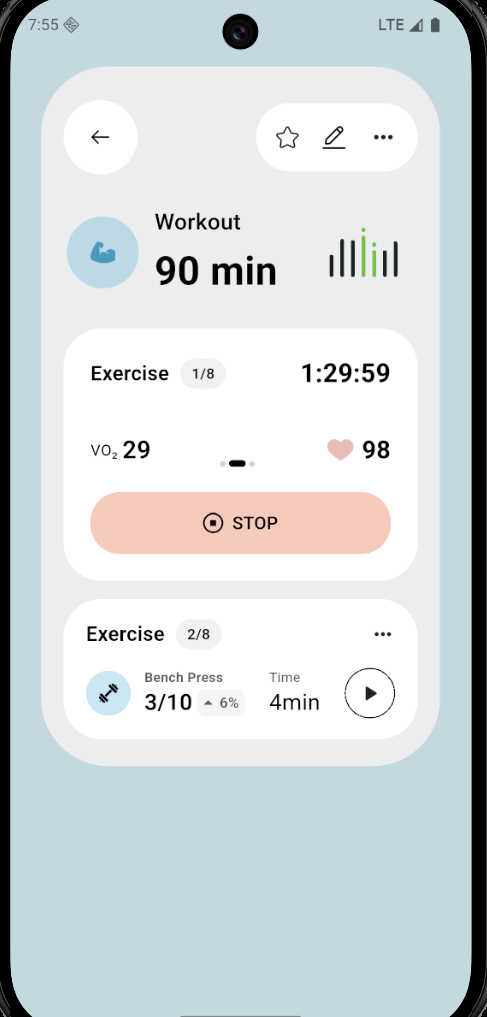
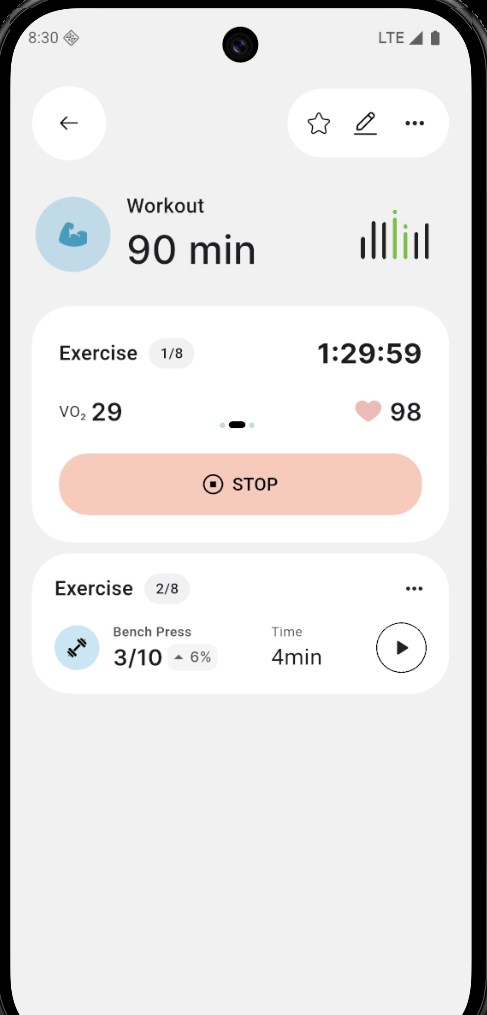
Day- 6 UI Improvement

diff --git a/day6/lib/screens/workout/workout_stats_card.dart b/day6/lib/screens/workout/workout_stats_card.dart
@@ -1,4 +1,5 @@
 import 'package:flutter/material.dart';
+import 'package:google_fonts/google_fonts.dart';
 
 class WorkoutStatsCard extends StatelessWidget {
   const WorkoutStatsCard({super.key});
@@ -48,9 +49,9 @@ class HeaderRow extends StatelessWidget {
           ),
         ),
         const Spacer(),
-        const Text(
+        Text(
           "1:29:59",
-          style: TextStyle(fontSize: 23, fontWeight: FontWeight.bold),
+          style: GoogleFonts.inter(fontSize: 25, fontWeight: FontWeight.bold),
         ),
       ],
     );
@@ -66,16 +67,54 @@ class MetricsRow extends StatelessWidget {
       children: [
         const Text("VO₂", style: TextStyle(fontSize: 14)),
         const SizedBox(width: 4),
-        const Text(
+        Text(
           "29",
-          style: TextStyle(fontSize: 22, fontWeight: FontWeight.w600),
+          style: GoogleFonts.inter(fontSize: 22, fontWeight: FontWeight.w600),
+        ),
+        const Spacer(),
+        SizedBox(
+          width: 50,
+          height: 30,
+          child: Row(
+            crossAxisAlignment: CrossAxisAlignment.end,
+            mainAxisAlignment: MainAxisAlignment.center,
+            children: [
+              Container(
+                width: 5,
+                height: 5,
+                decoration: BoxDecoration(
+                  borderRadius: BorderRadius.circular(10),
+                  color: Color.fromARGB(255, 196, 217, 223),
+                ),
+              ),
+
+              SizedBox(width: 3),
+              Container(
+                width: 15,
+                height: 6,
+                decoration: BoxDecoration(
+                  borderRadius: BorderRadius.circular(10),
+                  color: Colors.black,
+                ),
+              ),
+              SizedBox(width: 3),
+              Container(
+                width: 5,
+                height: 5,
+                decoration: BoxDecoration(
+                  borderRadius: BorderRadius.circular(10),
+                  color: Color.fromARGB(255, 196, 217, 223),
+                ),
+              ),
+            ],
+          ),
         ),
         const Spacer(),
         Image.asset("assets/icons/heart (1).png", width: 30, height: 30),
         const SizedBox(width: 4),
-        const Text(
+        Text(
           "98",
-          style: TextStyle(fontSize: 22, fontWeight: FontWeight.w700),
+          style: GoogleFonts.inter(fontSize: 22, fontWeight: FontWeight.w600),
         ),
       ],
     );

diff --git a/day6/lib/widgets/exercise_item.dart b/day6/lib/widgets/exercise_item.dart
@@ -1,4 +1,5 @@
 import 'package:flutter/material.dart';
+import 'package:google_fonts/google_fonts.dart';
 
 class ExerciseItem extends StatelessWidget {
   final String index;
@@ -84,7 +85,7 @@ class ExerciseItem extends StatelessWidget {
                       children: [
                         Text(
                           progress,
-                          style: const TextStyle(
+                          style: GoogleFonts.inter(
                             fontSize: 20,
                             fontWeight: FontWeight.w600,
                           ),
@@ -106,7 +107,7 @@ class ExerciseItem extends StatelessWidget {
                               ),
                               Text(
                                 improvement,
-                                style: const TextStyle(
+                                style: GoogleFonts.inter(
                                   fontSize: 13,
                                   color: Color.fromARGB(255, 75, 77, 75),
                                   fontWeight: FontWeight.w500,

diff --git a/day6/lib/screens/workout/workout_header.dart b/day6/lib/screens/workout/workout_header.dart
@@ -1,5 +1,6 @@
 import 'package:flutter/material.dart';
 import '../../widgets/mini_bar_chart.dart';
+import 'package:google_fonts/google_fonts.dart';
 
 class WorkoutHeader extends StatelessWidget {
   const WorkoutHeader({super.key});
@@ -44,14 +45,14 @@ class WorkoutInfo extends StatelessWidget {
   Widget build(BuildContext context) {
     return Column(
       crossAxisAlignment: CrossAxisAlignment.start,
-      children: const [
+      children: [
         Text(
           "Workout",
           style: TextStyle(fontSize: 18, fontWeight: FontWeight.w500),
         ),
         Text(
           "90 min",
-          style: TextStyle(fontSize: 35, fontWeight: FontWeight.w400),
+          style: GoogleFonts.inter(fontSize: 35, fontWeight: FontWeight.w500),
         ),
       ],
     );

diff --git a/day6/macos/Flutter/GeneratedPluginRegistrant.swift b/day6/macos/Flutter/GeneratedPluginRegistrant.swift
@@ -5,6 +5,8 @@
 import FlutterMacOS
 import Foundation
 
+import path_provider_foundation
 
 func RegisterGeneratedPlugins(registry: FlutterPluginRegistry) {
+  PathProviderPlugin.register(with: registry.registrar(forPlugin: "PathProviderPlugin"))
 }

diff --git a/day6/lib/main.dart b/day6/lib/main.dart
@@ -2,7 +2,7 @@ import 'package:flutter/material.dart';
 import 'screens/workout/workout_screen.dart';
 
 void main() {
-  runApp(const WorkoutApp());
+  runApp(WorkoutApp());
 }
 
 class WorkoutApp extends StatelessWidget {

diff --git a/day6/README.md b/day6/README.md
@@ -1,17 +1,15 @@
-## Day 5 – Icon Updates & UI Design Improvements
+## Day 6 – Typography & Code Structure Improvements
 
 ## What Was Done
 
-- Created an assets/ directory to centralize static resources.
+- Updated the application to use the correct and consistent font family across all text elements.
 
-- Added an icons/ subfolder inside assets/ to manage all icon files.
+- Refactored deeply nested UI code into well-structured, reusable widget files.
 
-- Replaced mismatched icons with appropriate ones based on the UI requirements.
-
-- Ensured icon usage is consistent across the interface.
+- Improved overall project structure by separating concerns instead of dumping everything into a single file.
 
 ## What I Learned
 
-- How to properly import and use icons within the codebase.
+- How to import, configure, and apply custom font families correctly within the project.
 
-- How to create custom icons and integrate them into a project.
+- How restructuring widgets improves code readability, maintainability, and makes future changes significantly easier and safer.
